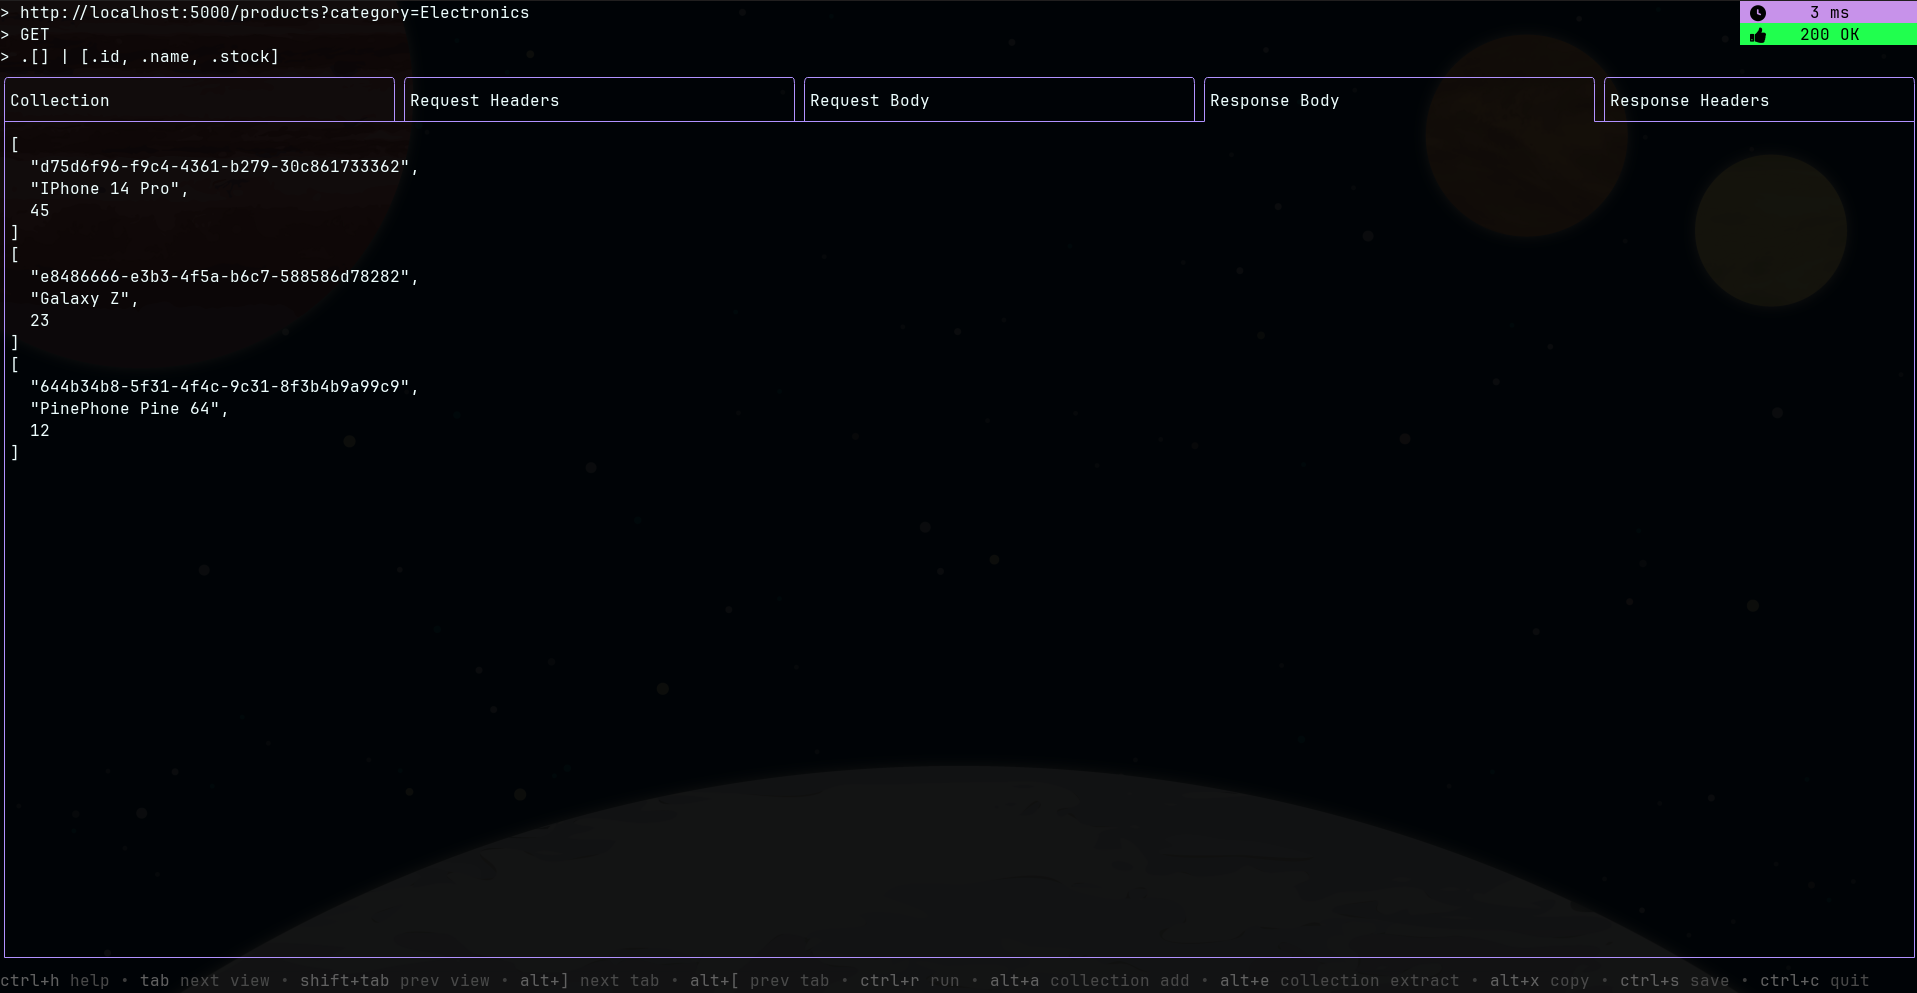
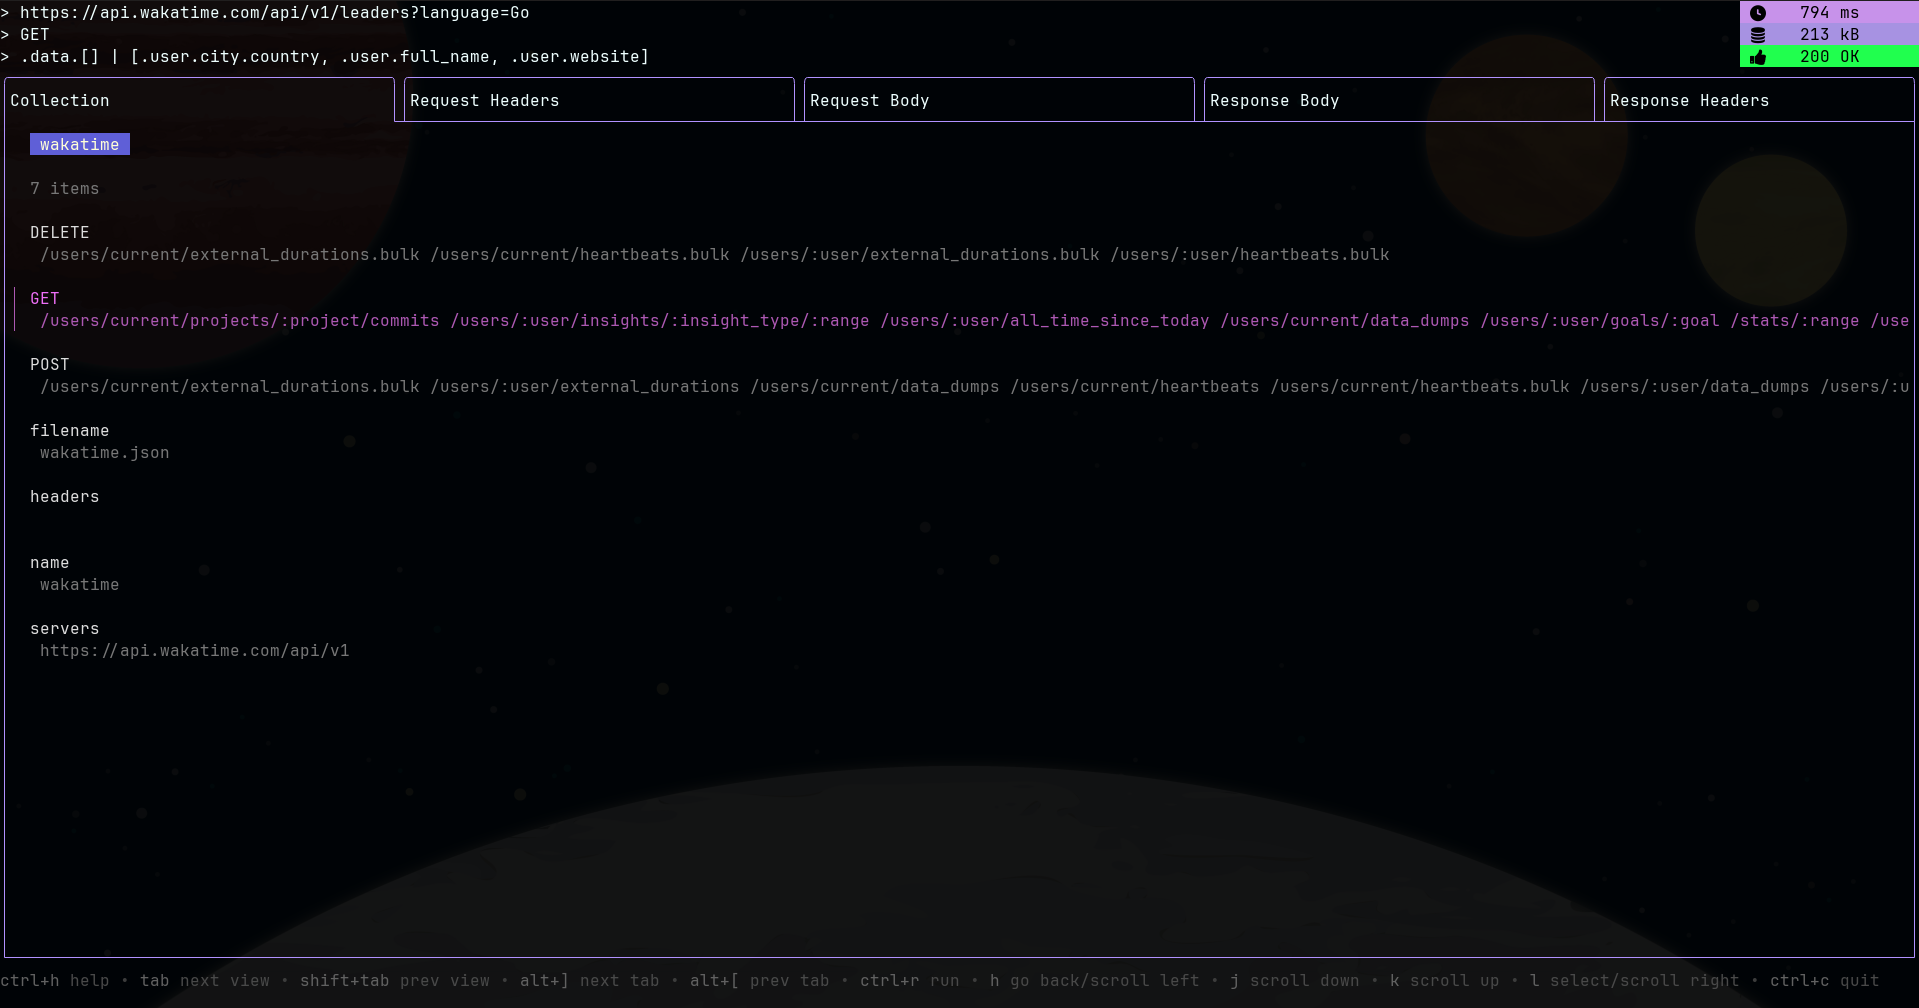
wip documentation

diff --git a/README.md b/README.md
@@ -14,7 +14,9 @@ Using the [bubbletea](https://github.com/charmbracelet/bubbletea) framework.
 `go install github.com/bramca/postui/cmd/postui@latest`
 or check out the [releases](https://github.com/bramca/postui/releases)
 
-## 🌔 Usage
+## 🌔 Features
+
+## 🌕 Usage
 
 `postui -f <collection.json>`
 
